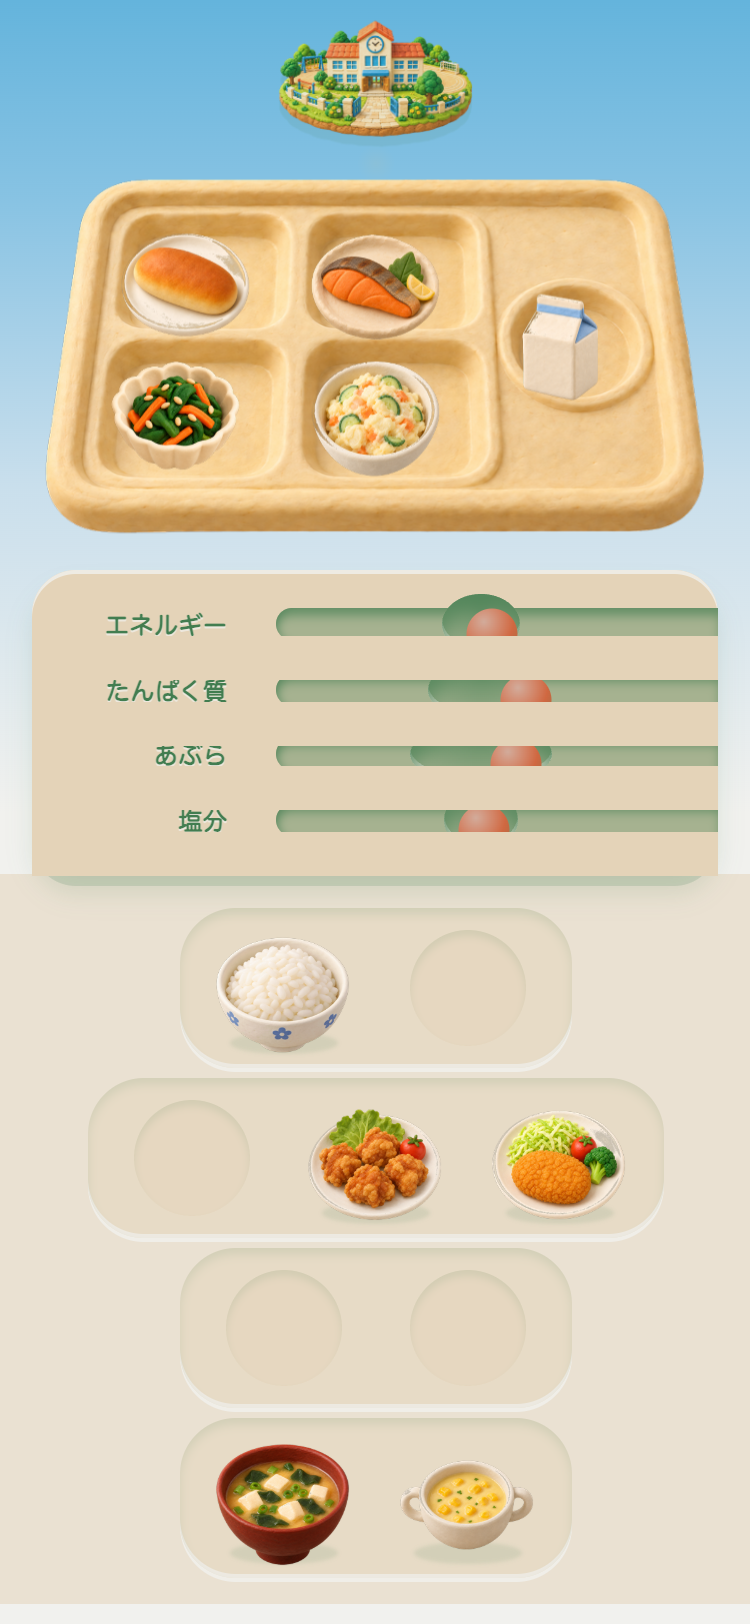
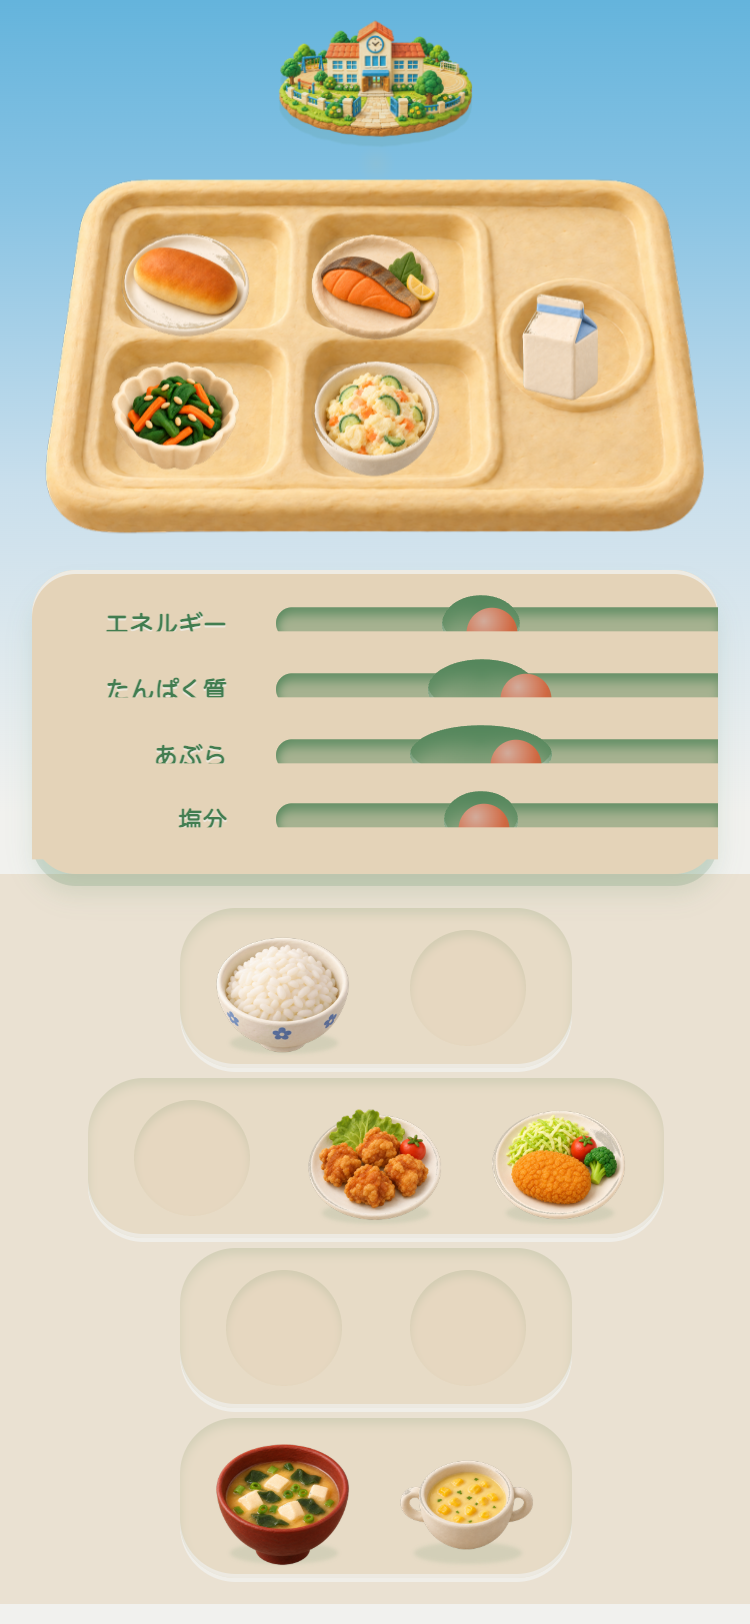
fix(v2): 小さい画面で こんだての ようす が読めなくなっていたのを直す
320x568 で確認したところ、溝の高さ22pxに対して行間が19.8pxしかなく、
さらに手前の縁が中心から22px下まで伸びていたため、4本の溝が下の溝の
ラベルの上に描かれていた。「たんぱく質」「あぶら」「塩分」が読めない。

溝の寸法をブレークポイントごとに手で置くのをやめ、行間から導くようにした:
- 溝1本の箱＝行間そのもの（GROOVE_Y は 21.5% 刻み）
- 中の部品（溝・窪み・手前の縁）は行間に対する割合
- 玉の沈み／浮きも px ではなく玉に対する割合
これで板が縮んでも溝が縮むだけで、隣の行に食い込まない。

あわせて独立レビュー r5（FAIL 84 / blocker 0 / high 1）の指摘:
フォーム部品の value を可視文字監査が見ていなかった → record() と shot()
の両方で拾う。

QAゲートを2つ追加（変異 M18 / M19 で落ちることを確認）:
- 5サイズすべてで、ある溝の部品が別の溝のラベルに重ならないこと
- input/textarea/select/output の表示値も数字禁止と allow-list に通すこと

diff --git a/src/v2/lunch/play/lunchMenuPlay.css b/src/v2/lunch/play/lunchMenuPlay.css
@@ -174,7 +174,12 @@
               inset 0 2px 0 color-mix(in srgb, var(--v2-warm-cream) 80%, transparent);
 }
 
-.lmp-groove { position: absolute; left: 0; right: 0; height: 30px; margin-top: -15px; display: block; }
+/* Each groove box IS the row pitch: GROOVE_Y steps by 21.5% of the block, so a
+   21.5%-tall row centred on it tiles the block exactly and nothing a groove
+   draws can reach into its neighbour. Everything inside is then a fraction of
+   that row rather than a pixel height, so a shorter block on a small phone
+   shrinks the channels instead of stacking them on top of each other's labels. */
+.lmp-groove { position: absolute; left: 0; right: 0; height: 21.5%; transform: translateY(-50%); display: block; }
 .lmp-groove-name {
   position: absolute;
   left: 2.5%;
@@ -192,9 +197,8 @@
 .lmp-groove-track {
   position: absolute;
   left: var(--groove-left); right: 0;
-  top: 50%;
-  height: 16px;
-  margin-top: -8px;
+  top: 25.5%;
+  height: 49%;
   border-radius: 8px 0 0 8px;
   background: color-mix(in srgb, var(--v2-warm-beige) 62%, var(--v2-deep-green));
   box-shadow: inset 0 5px 5px -1px color-mix(in srgb, var(--v2-deep-green) 62%, transparent),
@@ -204,9 +208,8 @@
 .lmp-groove-hollow {
   position: absolute;
   left: var(--hollow-left); width: var(--hollow-width);
-  top: 50%;
-  height: 30px;
-  margin-top: -15px;
+  top: 5%;
+  height: 90%;
   border-radius: 50%;
   background: radial-gradient(ellipse at 50% 28%, color-mix(in srgb, var(--v2-deep-green) 72%, var(--v2-warm-beige)), color-mix(in srgb, var(--v2-deep-green) 48%, var(--v2-warm-beige)) 78%);
   box-shadow: inset 0 8px 9px color-mix(in srgb, var(--v2-deep-green) 72%, transparent),
@@ -217,9 +220,11 @@
 .lmp-groove-lip {
   position: absolute;
   left: 0; right: 0;
-  top: 50%;
-  margin-top: 6px;
-  height: 22px;
+  /* far enough to cover a bead that has dropped into the hollow, and no
+     further: the next channel's name starts at 162% of this row, so the lip
+     stops just short of it instead of sitting on top of it as it used to */
+  top: 62%;
+  height: 48%;
   background: var(--v2-warm-beige);
   z-index: 2;
 }
@@ -246,12 +251,14 @@
 /* dropped into the hollow: it sits low, the near lip covers more of it, it is in
    the hollow's shade, and it does not move at all */
 .lmp-bead.band-good {
-  transform: translateY(5px) scale(0.98);
+  /* a share of the bead, not 5px: the bead shrinks on a small phone and a
+     fixed drop would push it out from under the lip */
+  transform: translateY(19%) scale(0.98);
   filter: brightness(0.88) saturate(1.08);
 }
 /* stuck up on the shallow part: it rides high above the lip and keeps rocking */
 .lmp-bead.band-low, .lmp-bead.band-high {
-  transform: translateY(-4px);
+  transform: translateY(-15%);
   filter: brightness(1.04) drop-shadow(0 5px 3px color-mix(in srgb, var(--v2-deep-green) 34%, transparent));
   animation: lmp-rock 1.5s ease-in-out infinite;
 }
@@ -418,7 +425,7 @@
   .lmp-trouble { top: calc(44px + env(safe-area-inset-top)); font-size: 14px; }
   .lmp-tray { width: min(100%, 296px); }
   .lmp-rack { width: min(100%, 296px); height: 112px; margin-top: 6px; }
-  .lmp-bead { width: 22px; height: 22px; margin: -11px 0 0 -11px; }
+  .lmp-bead { width: 20px; height: 20px; margin: -10px 0 0 -10px; }
   .lmp-counter { gap: 2px; padding: 6px 12px 4px; }
   .lmp-cand { width: clamp(62px, 21vw, 80px); height: 56px; }
   .lmp-empty-spot { width: 42px; height: 42px; }
@@ -431,10 +438,8 @@
   .lmp-trouble { top: calc(32px + env(safe-area-inset-top)); font-size: 13px; padding: 5px 11px; }
   .lmp-tray { width: min(100%, 258px); }
   .lmp-rack { width: min(100%, 258px); height: 92px; margin-top: 4px; border-radius: 16px; }
-  .lmp-bead { width: 19px; height: 19px; margin: -9.5px 0 0 -9.5px; }
-  .lmp-groove { height: 22px; margin-top: -11px; }
+  .lmp-bead { width: 16px; height: 16px; margin: -8px 0 0 -8px; }
   .lmp-groove-name { font-size: 10px; }
-  .lmp-groove-lip { margin-top: 5px; height: 17px; }
   .lmp-counter { gap: 1px; padding: 4px 10px 2px; }
   .lmp-cand { width: clamp(56px, 20vw, 70px); height: 46px; }
   .lmp-empty-spot { width: 36px; height: 36px; }

diff --git a/factory/state/qa/v2-lunch-mutation-log.md b/factory/state/qa/v2-lunch-mutation-log.md
@@ -29,8 +29,10 @@ and reverted; the source was restored from a copy taken before each mutation.
 | M15 | the school cannot be touched when motion is reduced, so the journey stops after the tray is built | the reduced-motion pass now drives both sends: "the first send did not produce a delivery trouble" and "the second send did not reach the job reveal" |
 | M16 | the small-screen minimum touch target is removed | the five-viewport sweep: six controls under 44×44 at 320×568 |
 | M17 | `content: "100てん"` gated on the bead's own band class — the pure form of the r4 finding | same as M14 |
+| M18 | the near lip reaches past its own channel and sits on the next channel's name | the rack check in the viewport sweep: "energy covers the protein name" |
+| M19 | a score displayed as a form control's value (`<input readOnly value="100てん">`) | form-control values are collected in both `record()` and `shot()`; the digit rule and the allow-list both fire |
 
-17 of 17 fail a named assertion. M5, M7, M8 were found by an independent review of the
+19 of 19 fail a named assertion. M5, M7, M8 were found by an independent review of the
 *first* rebuilt harness; M9–M12 by the two rounds after that, M13 by the round
 after those, and M14–M16 by the closing round (r4 — FAIL 80, 0 blockers, 1 HIGH, 2
 MEDIUM, all three in the harness rather than in the game). Each round found
@@ -51,6 +53,35 @@ element on the page. The filter was never the binding constraint.
 coincidence of React's render batching, and widening the filter costs one run of an
 already-cheap scan. Recorded here so nobody later "discovers" that M14 passes without
 the fix and concludes the fix was pointless — it was insurance, not a repair.
+
+## The r5 round, and what looking at 320×568 found that no check had
+
+r5 returned FAIL 84 with one HIGH, again in the harness: the visible-text audit
+collected text nodes, aria-labels and generated content, but never a form control's
+**value**, so `<input readOnly value="100てん">` on the board would have been a score
+nothing looked at. Real, concrete, reproducible — M19.
+
+Separately, and not from any review: opening 320×568 by hand showed the counting rack
+badly broken. The four channels were 22px tall on a 19.8px row pitch, each near lip
+ran 22px past its own centre, and each hollow was 30px tall, so every channel was
+drawn across the next channel's name. Three of the four labels were unreadable. The
+new five-viewport sweep did not catch it, because it checked overflow and touch
+targets — nothing the child *reads*.
+
+Two things came out of that:
+
+- the rack is now derived instead of hand-tuned. Each groove box **is** the row pitch
+  (`GROOVE_Y` steps by 21.5%), and every part inside it is a fraction of that row, so
+  a shorter block shrinks the channels instead of stacking them. The three
+  breakpoint-specific groove heights are gone; the bead's sink and rise are shares of
+  the bead, not pixels.
+- the sweep now checks the rack at every viewport: no channel's parts may touch
+  another channel's name, and nothing may be drawn outside the block (M18).
+
+The lesson is the same one as M16 and worth writing down once more: **a check that
+only measures what can be touched cannot see what cannot be read.** Both failures were
+visible in one glance at the smallest supported phone, and both survived four
+independent reviews that never opened it.
 
 ## What M16 found in the game, not in the gate
 
